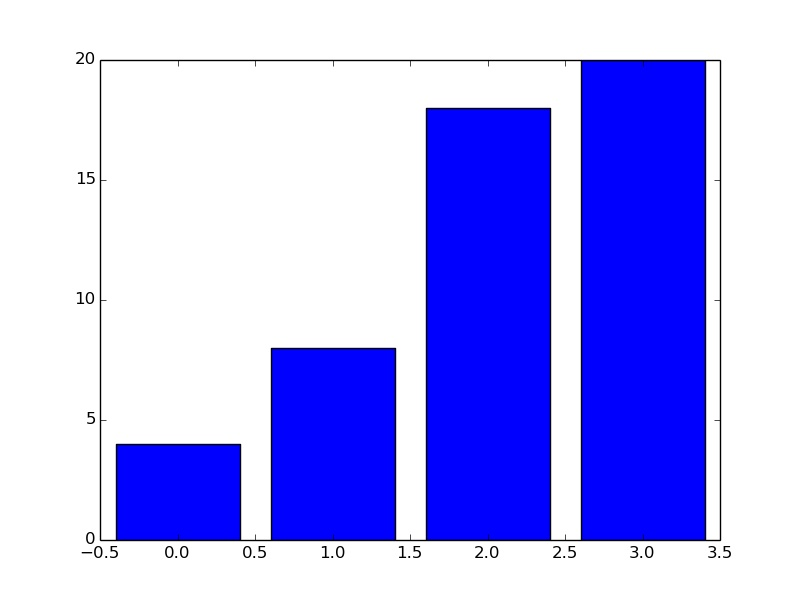
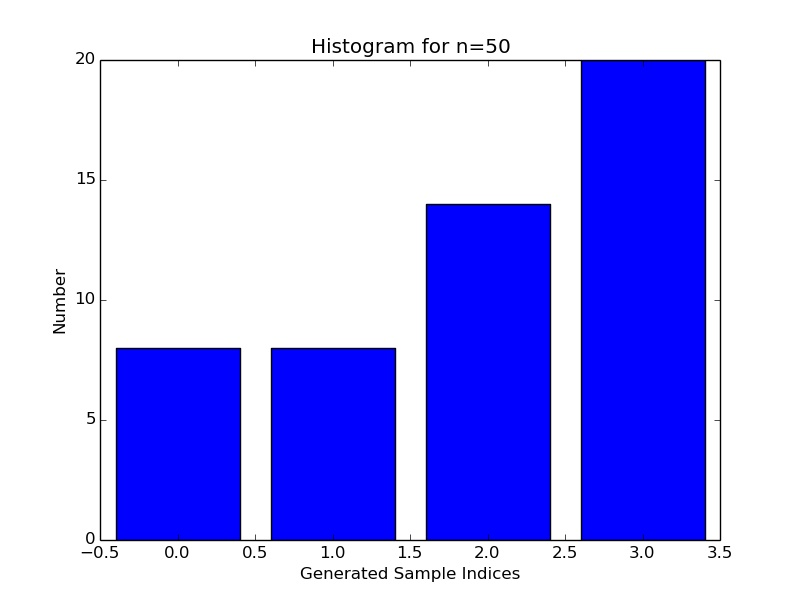
Binary Classifier Added.

diff --git a/hw3/hw3_submission.py b/hw3/hw3_submission.py
@@ -35,7 +35,8 @@ X_train= X[NUM_TEST:,:]
 y_test = y[:NUM_TEST,:]
 y_train= y[NUM_TEST:,:]
 
-
+BINARY = 0
+ONLINE = 1
 
 def genC(n, w):
 	w_cumul	= w.cumsum()
@@ -44,13 +45,46 @@ def genC(n, w):
 	c 	= [w_arr[(w_arr > np.random.random())].index[0] for i in range(0,n)]		
 	return c
 
-def Adaboost(X_train, y_train, X_test, y_test, T ,classifier=None):
-    n = len(X_train,axis=1)
-    w = (1.0)/n * np.ones((n,1))
+def BinaryClassifier(X_train, y_train):
+    n = np.size(X_train,axis=0)
+    w = np.ones((np.size(X_train,axis=1),1))
 
+    idx_0 =[]
+    idx_1 =[]    
+    for idx,elem in enumerate(y_train):
+        if elem == 1:
+            idx_1.append(idx)
+        else:
+            idx_0.append(idx)
+    mu_0 = X_train[idx_0,1:]
+    mu_1 = X_train[idx_1,1:]
+
+    pi_1 = len(idx_1)*1.0/n
+    pi_0 = len(idx_0)*1.0/n
+    
+    cov  = np.cov(X_train[:,1:])
+
+    print pi_1, pi_0         
+    return w
+
+def OnlineClassifier(X_train, y_train):
+    w = np.ones((10,1))
+    return w
+
+def Adaboost(X_train, y_train, X_test, y_test, T ,classifier):
+    n = np.size(X_train,axis=0)
+    pt = (1.0)/n * np.ones((n,1))
+    alpha_list = []
+    eps_list = []
+    err_train = []
+    err_test  = []
     for i in range(0,T):
-        sample_indices = genC(n,w)
-        print sample_indices
+        Bt = genC(n,pt)
+        print Bt
+        X_bt = X_train[Bt]
+        y_bt = y_train[Bt]
+        if classifier ==BINARY:
+            w = BinaryClassifier(X_bt, y_bt)
         
 def p1():
     print "Part 1:\n"
@@ -62,11 +96,16 @@ def p1():
         hist, bins = np.histogram(sample, bins=len(w))
         print hist, bins
         plt.clf()
+        plt.xlabel("Generated Sample Indices")
+        plt.ylabel("Number")
+        plt.title("Histogram for n=%d"%n)
         plt.bar(np.array(range(0,len(hist))), np.array(hist), align='center')    
         plt.savefig(PATH+'../images/p1_hist_'+str(n)+'.jpg')
         
 def p2():
     print "Part 2:\n"
+    Adaboost(X_train, y_train, X_test, y_test, 10 , BINARY)
+    
     
 def p3():
     print "Part 3:\n"
